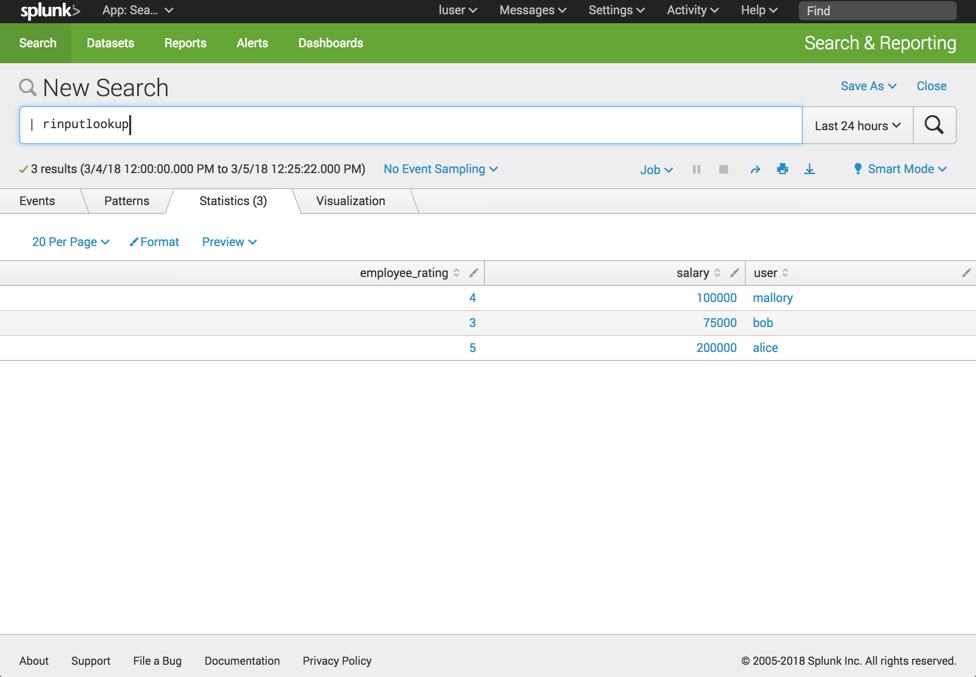
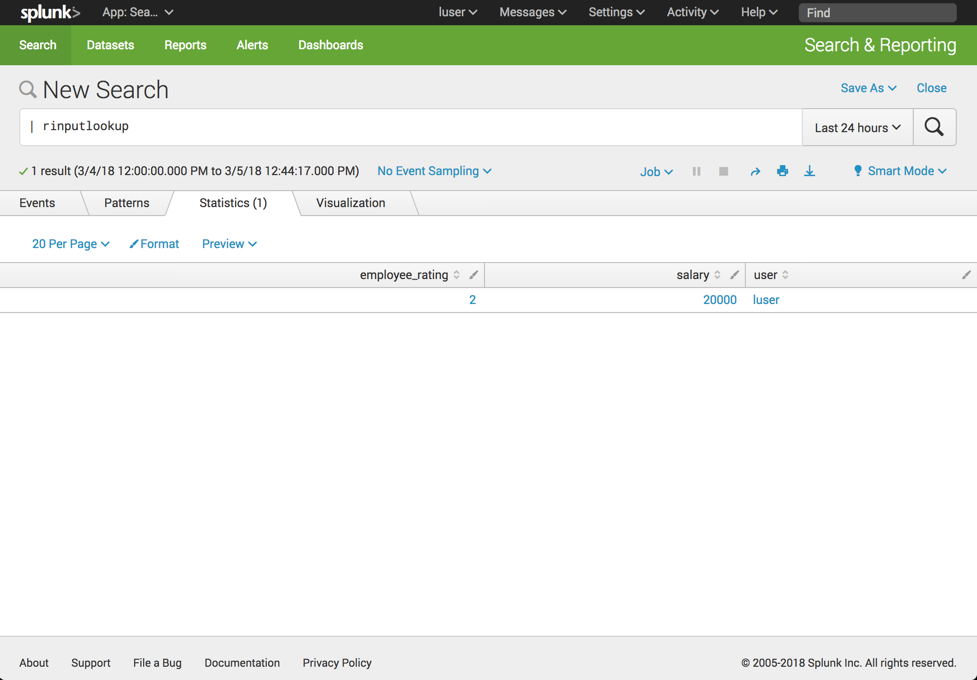
added user filtering

diff --git a/bin/rinputlookup.py b/bin/rinputlookup.py
@@ -65,8 +65,8 @@ class rinputlookupCommand(ReportingCommand):
 
         try:
             searchquery = """
-            | inputlookup employeeinfo.csv
-            """
+            | inputlookup employeeinfo.csv | search user={}
+            """.format(user)
             kwargs_oneshot = {'count': 0}
             service = client.connect(host=HOST, port=PORT, username=USER, password=PASSWORD)
             searchresults = service.jobs.oneshot(searchquery, **kwargs_oneshot)
